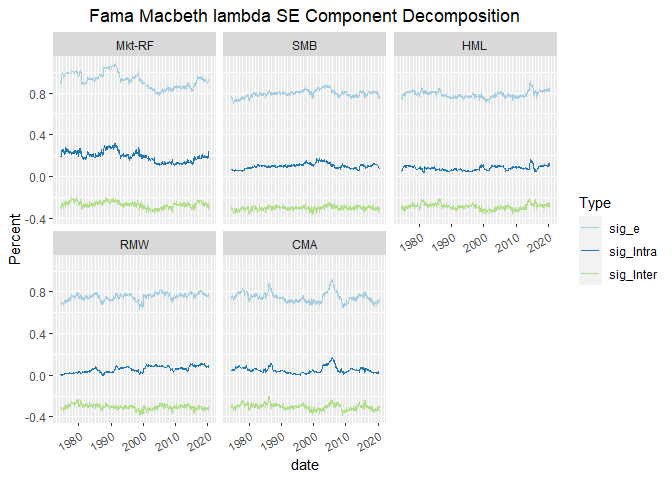
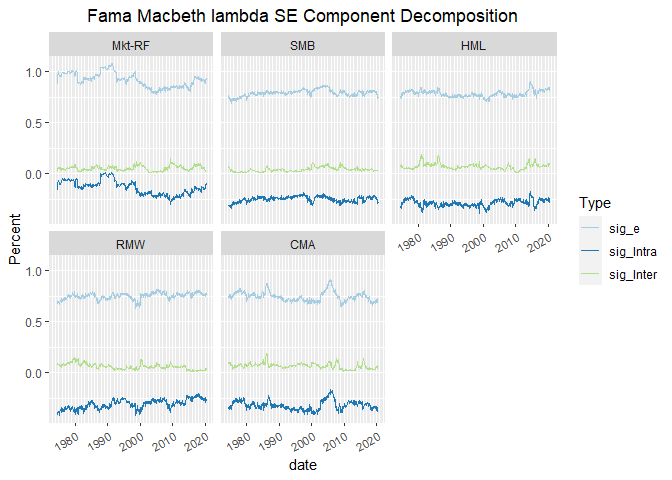
Correction of Decomposition

diff --git a/ECC.md b/ECC.md
@@ -8933,19 +8933,19 @@ sig\_e
 sig\_Inter
 </td>
 <td style="text-align:center;">
--0.3021069
+0.0671794
 </td>
 <td style="text-align:center;">
--0.3019182
+0.0672564
 </td>
 <td style="text-align:center;">
-0.0007528
+0.0007139
 </td>
 <td style="text-align:center;">
-0.2594155
+0.8082294
 </td>
 <td style="text-align:center;">
-3.452309
+5.336149
 </td>
 </tr>
 <tr>
@@ -8953,19 +8953,19 @@ sig\_Inter
 sig\_Intra
 </td>
 <td style="text-align:center;">
-0.0495375
+-0.3197487
 </td>
 <td style="text-align:center;">
-0.0427195
+-0.3263410
 </td>
 <td style="text-align:center;">
-0.0009208
+0.0019805
 </td>
 <td style="text-align:center;">
-1.3411327
+0.6957077
 </td>
 <td style="text-align:center;">
-5.024169
+3.577028
 </td>
 </tr>
 <tr>
@@ -8996,19 +8996,19 @@ sig\_e
 sig\_Inter
 </td>
 <td style="text-align:center;">
--0.2912745
+0.0720098
 </td>
 <td style="text-align:center;">
--0.2903845
+0.0690313
 </td>
 <td style="text-align:center;">
-0.0006957
+0.0008303
 </td>
 <td style="text-align:center;">
-0.1544325
+1.1057488
 </td>
 <td style="text-align:center;">
-3.193052
+5.330316
 </td>
 </tr>
 <tr>
@@ -9016,19 +9016,19 @@ sig\_Inter
 sig\_Intra
 </td>
 <td style="text-align:center;">
-0.0775855
+-0.2856988
 </td>
 <td style="text-align:center;">
-0.0759507
+-0.2869396
 </td>
 <td style="text-align:center;">
-0.0003940
+0.0010530
 </td>
 <td style="text-align:center;">
-0.6111720
+0.0336732
 </td>
 <td style="text-align:center;">
-3.667783
+3.189743
 </td>
 </tr>
 <tr>
@@ -9059,19 +9059,19 @@ sig\_e
 sig\_Inter
 </td>
 <td style="text-align:center;">
--0.2705319
+0.0547342
 </td>
 <td style="text-align:center;">
--0.2684655
+0.0518618
 </td>
 <td style="text-align:center;">
-0.0008488
+0.0005520
 </td>
 <td style="text-align:center;">
--0.2958021
+0.5918467
 </td>
 <td style="text-align:center;">
-2.647622
+3.228067
 </td>
 </tr>
 <tr>
@@ -9079,19 +9079,19 @@ sig\_Inter
 sig\_Intra
 </td>
 <td style="text-align:center;">
-0.1903269
+-0.1349391
 </td>
 <td style="text-align:center;">
-0.1897735
+-0.1322494
 </td>
 <td style="text-align:center;">
-0.0025031
+0.0048024
 </td>
 <td style="text-align:center;">
-0.2353964
+0.1920204
 </td>
 <td style="text-align:center;">
-2.311712
+2.244849
 </td>
 </tr>
 <tr>
@@ -9122,19 +9122,19 @@ sig\_e
 sig\_Inter
 </td>
 <td style="text-align:center;">
--0.3040057
+0.0610090
 </td>
 <td style="text-align:center;">
--0.3042495
+0.0591732
 </td>
 <td style="text-align:center;">
-0.0004999
+0.0007948
 </td>
 <td style="text-align:center;">
--0.2555446
+0.5879833
 </td>
 <td style="text-align:center;">
-3.929053
+3.094051
 </td>
 </tr>
 <tr>
@@ -9142,19 +9142,19 @@ sig\_Inter
 sig\_Intra
 </td>
 <td style="text-align:center;">
-0.0574768
+-0.3075379
 </td>
 <td style="text-align:center;">
-0.0605057
+-0.3045390
 </td>
 <td style="text-align:center;">
-0.0008245
+0.0021026
 </td>
 <td style="text-align:center;">
--0.0416081
+-0.1064799
 </td>
 <td style="text-align:center;">
-1.818473
+2.212334
 </td>
 </tr>
 <tr>
@@ -9185,19 +9185,19 @@ sig\_e
 sig\_Inter
 </td>
 <td style="text-align:center;">
--0.3049125
+0.0420830
 </td>
 <td style="text-align:center;">
--0.3040103
+0.0391009
 </td>
 <td style="text-align:center;">
-0.0003267
+0.0004051
 </td>
 <td style="text-align:center;">
--0.2385390
+1.0027584
 </td>
 <td style="text-align:center;">
-3.398846
+3.799921
 </td>
 </tr>
 <tr>
@@ -9205,19 +9205,19 @@ sig\_Inter
 sig\_Intra
 </td>
 <td style="text-align:center;">
-0.0987307
+-0.2482649
 </td>
 <td style="text-align:center;">
-0.0978239
+-0.2447258
 </td>
 <td style="text-align:center;">
-0.0005943
+0.0007381
 </td>
 <td style="text-align:center;">
-0.3719077
+-0.4879583
 </td>
 <td style="text-align:center;">
-3.273406
+2.873762
 </td>
 </tr>
 </tbody>
